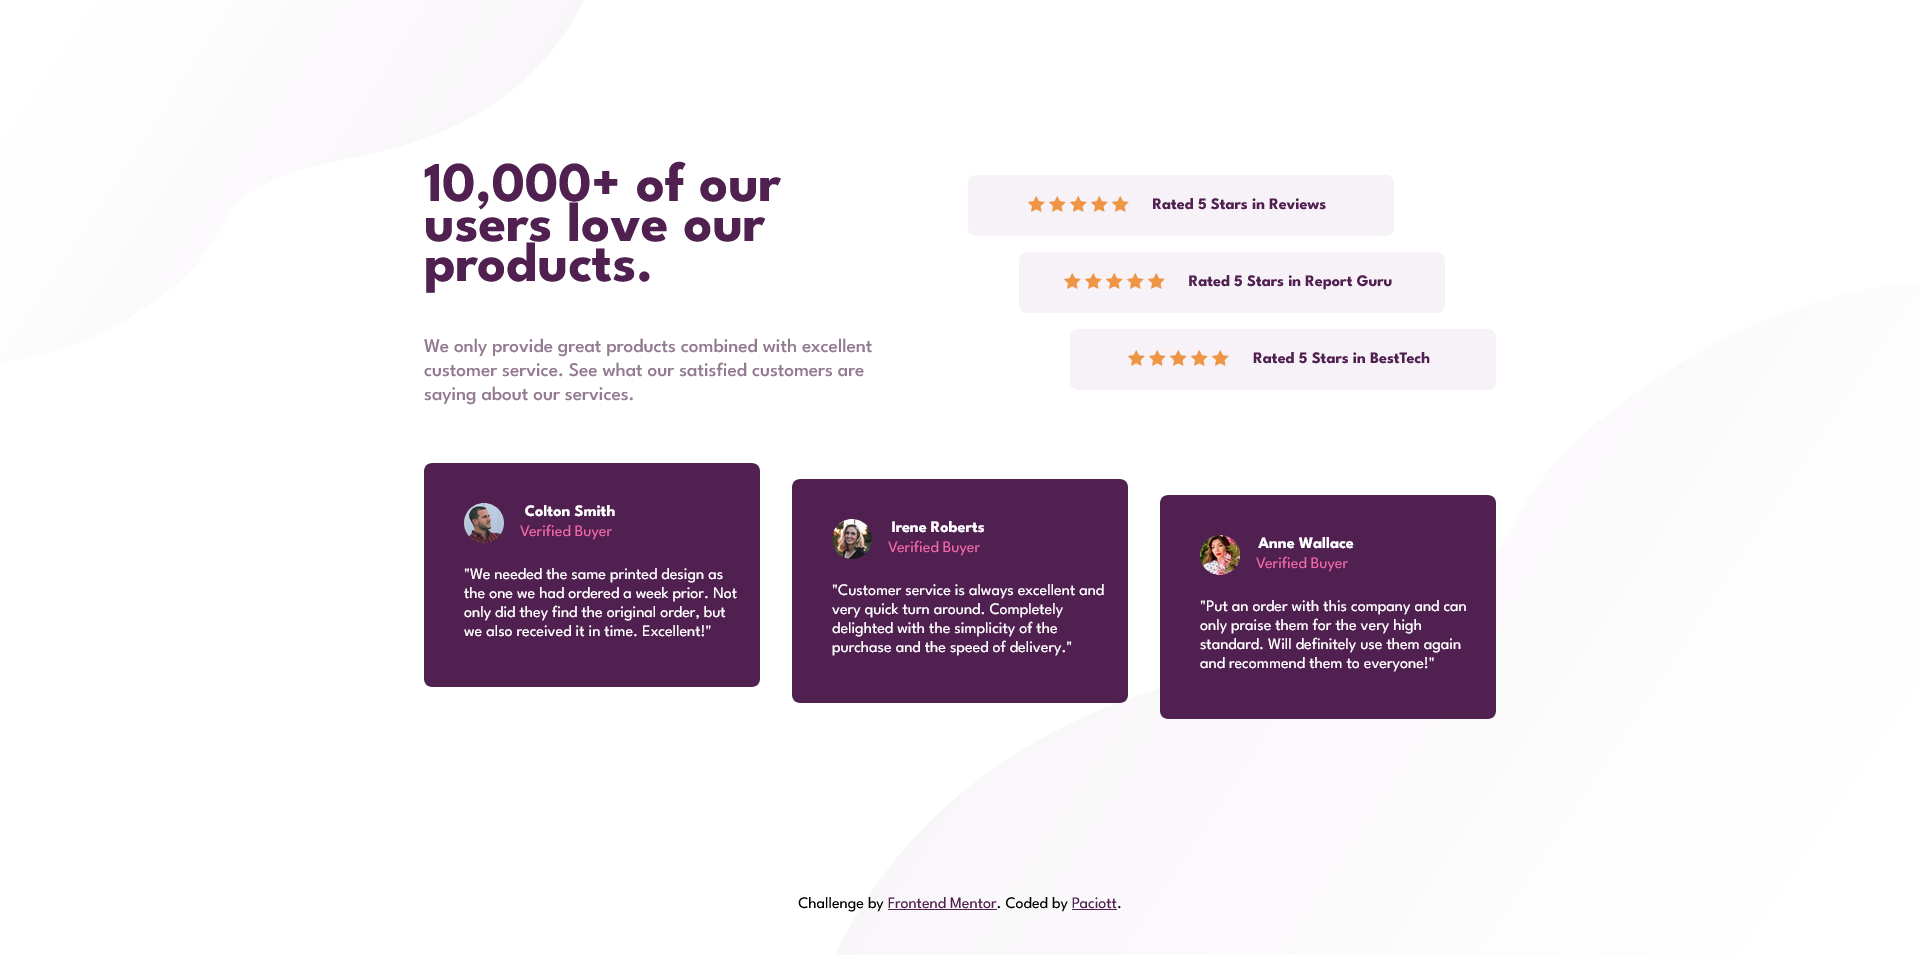
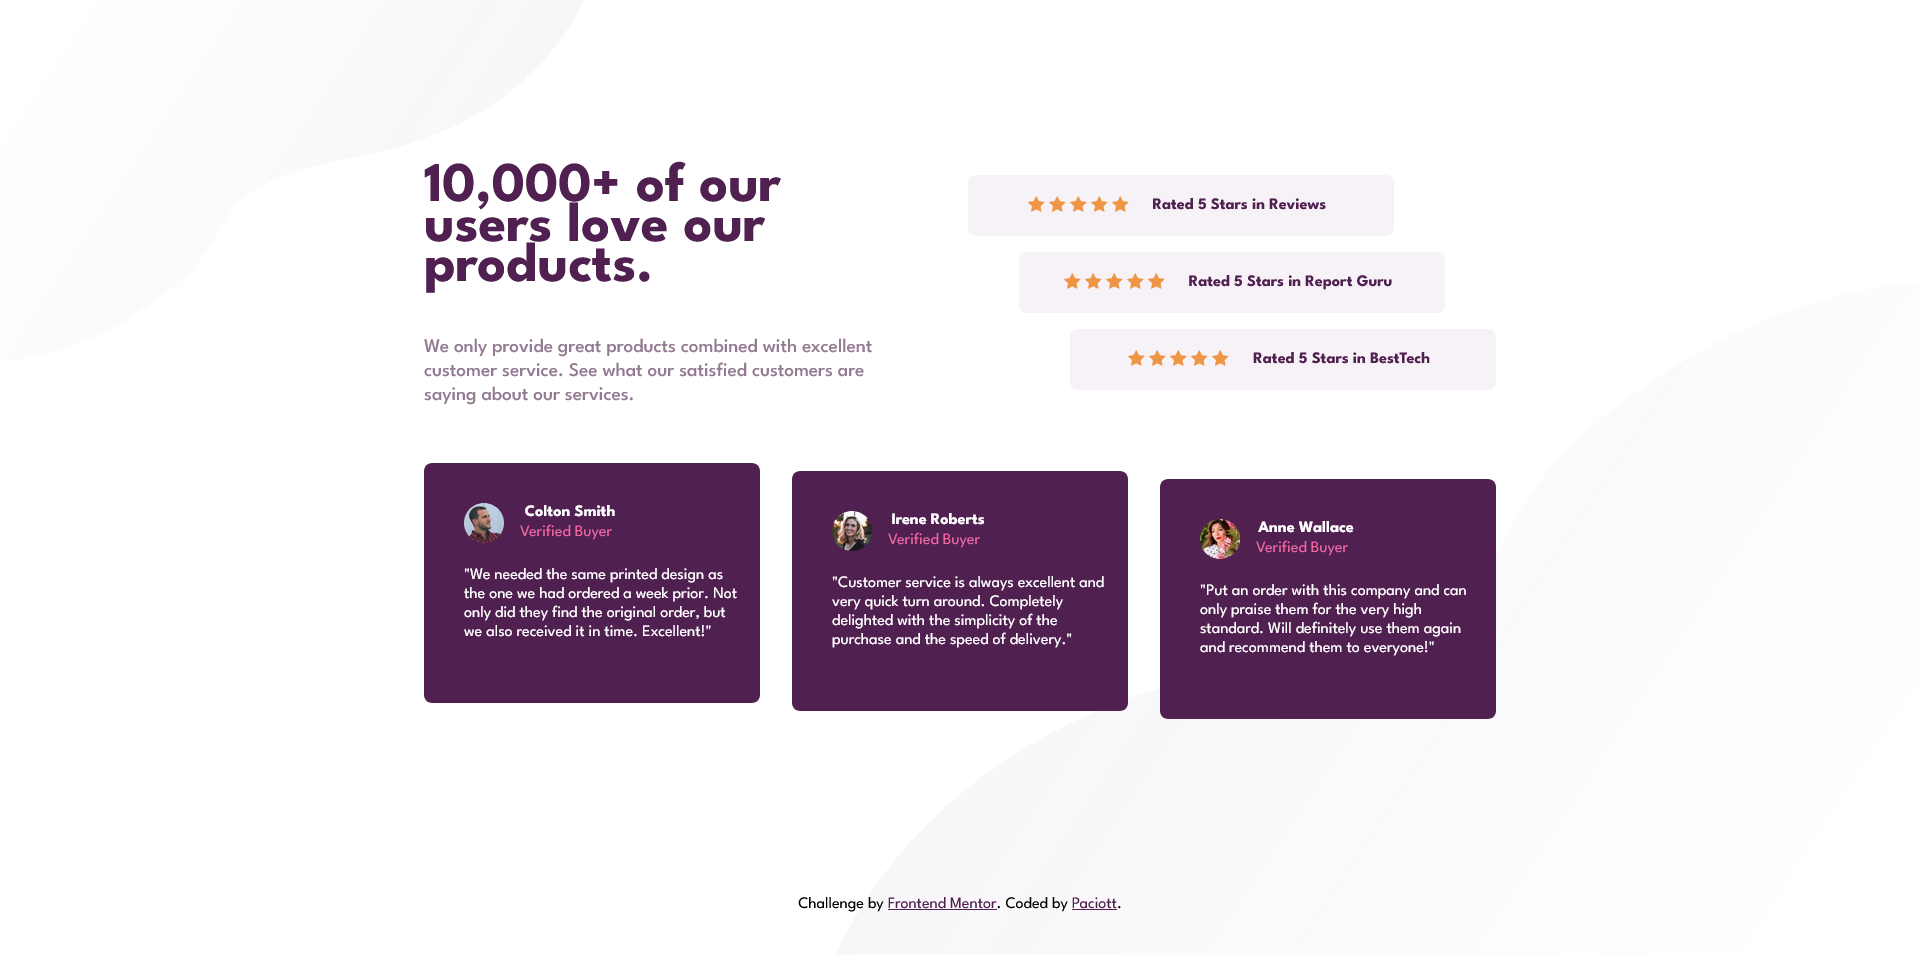
update breakpoints

Changed region(s): [[0.4062, 0.4859, 0.7812, 0.6984], [0.625, 0.5466, 0.7812, 0.6984], [0.2188, 0.6984, 0.5938, 0.7592]]

diff --git a/style/style.css b/style/style.css
@@ -2,14 +2,15 @@
 /*colors*/
 /*size*/
 body {
-  margin: 0;
+  margin: 0 1rem;
   height: 100%;
   font-family: "League Spartan", sans-serif;
   display: flex;
   flex-direction: column;
   align-items: center;
   text-align: center;
-  background-image: url(../images/bg-pattern-top-mobile.svg), url(../images/bg-pattern-bottom-mobile.svg);
+  background-image: url(../images/bg-pattern-top-mobile.svg),
+    url(../images/bg-pattern-bottom-mobile.svg);
   background-repeat: no-repeat;
   background-position: top left, bottom right;
 }
@@ -54,7 +55,7 @@ body .description {
 
 .card {
   background-color: hsl(300deg, 43%, 22%);
-  min-height: 13rem;
+  min-height: 14rem;
   margin: 1rem auto;
   max-width: 20rem;
   border-radius: 0.5rem;
@@ -93,10 +94,11 @@ body .description {
   color: black;
 }
 
-@media (min-width: 1100px) {
+@media (min-width: 850px) {
   body {
     height: 100vh;
-    background-image: url(../images/bg-pattern-top-desktop.svg), url(../images/bg-pattern-bottom-desktop.svg);
+    background-image: url(../images/bg-pattern-top-desktop.svg),
+      url(../images/bg-pattern-bottom-desktop.svg);
   }
   main {
     margin-top: 15vh;
@@ -174,4 +176,4 @@ body .description {
   .attribution {
     margin-top: 10rem;
   }
-}/*# sourceMappingURL=style.css.map */
+} /*# sourceMappingURL=style.css.map */

diff --git a/style/style.scss b/style/style.scss
@@ -23,7 +23,7 @@ $White: hsl(0, 0%, 100%);
 }
 
 body {
-  margin: 0;
+  margin: 0 1rem;
   height: 100%;
   font-family: "League Spartan", sans-serif;
   @include flexCenter();
@@ -75,7 +75,7 @@ body {
 
 .card {
   background-color: $Very-Dark-Magenta;
-  min-height: 13rem;
+  min-height: 14rem;
   @include size();
 
   .customer {
@@ -119,7 +119,7 @@ body {
   }
 }
 
-@media (min-width: 1100px) {
+@media (min-width: 850px) {
   body {
     height: 100vh;
     background-image: url(../images/bg-pattern-top-desktop.svg),
